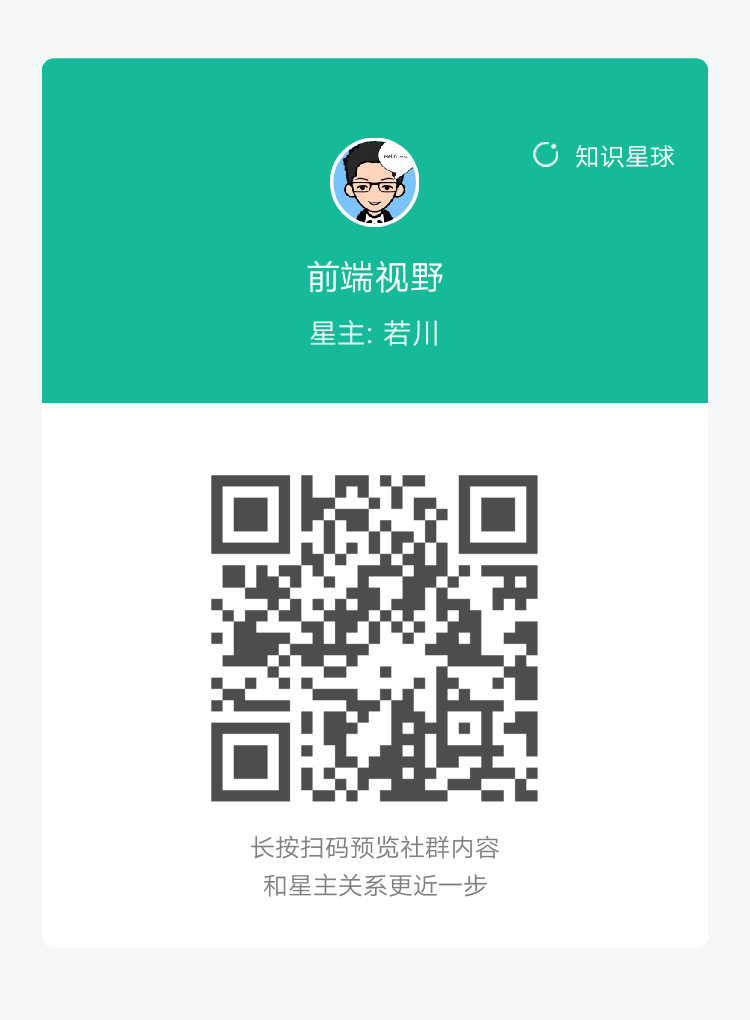
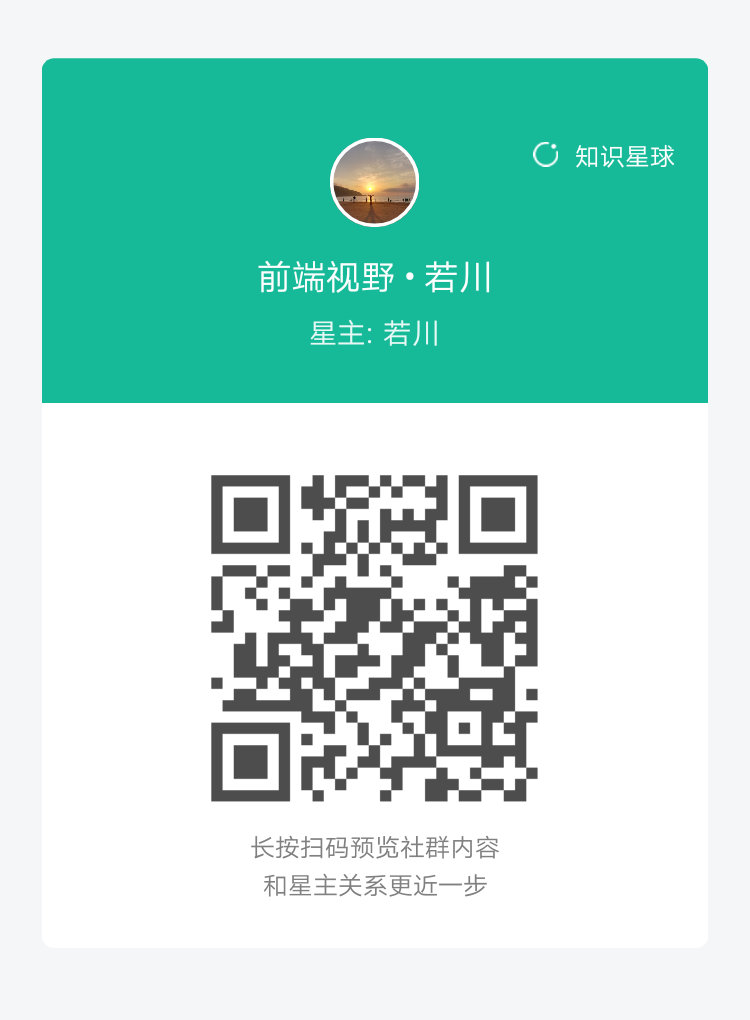
Docs: 更新介绍和知识星球图片替换 :construction:

Changed region(s): [[0.276, 0.4559, 0.736, 0.7902], [0.3373, 0.1216, 0.644, 0.3039]]

diff --git a/docs/.vuepress/config.js b/docs/.vuepress/config.js
@@ -126,19 +126,19 @@ module.exports = {
 				link: 'https://juejin.im/user/57974dc55bbb500063f522fd/posts'
 			},
 			{
-				text: 'segmentFault',
-				link: 'https://segmentfault.com/u/lxchuan12/',
+				text: '知乎',
+				link: 'https://www.zhihu.com/people/lxchuan12/activities',
 			},
 			{
 				text: '其他',
 				items: [
 					{
-						text: '简书',
-						link: 'http://www.jianshu.com/users/83129d433d72/latest_articles',
+						text: 'segmentFault',
+						link: 'https://segmentfault.com/u/lxchuan12/',
 					},
 					{
-						text: '知乎',
-						link: 'https://www.zhihu.com/people/lxchuan12/activities',
+						text: '简书',
+						link: 'http://www.jianshu.com/users/83129d433d72/latest_articles',
 					},
 					{
 						text: '微博',

diff --git a/docs/about/README.md b/docs/about/README.md
@@ -2,7 +2,7 @@
 
 ## 简介
 
-某不那么知名的陶瓷大学2016届毕业生，目前在杭州从事前端开发工作，也是一枚`PPT爱好者`。[`freecodecamp`](https://learn.freecodecamp.one/) （简称FCC）杭州社区组织者之一。所知甚少，唯善学。常以~~轩辕Rowboat~~`若川`为名混迹于江湖。
+某不那么知名的陶瓷大学2016届毕业生，目前在杭州从事前端开发工作，也是一枚`PPT爱好者`。[`freecodecamp`](https://learn.freecodecamp.one/) （简称FCC）杭州社区组织者之一（`简单说就是FCC杭州社区与杭州互联网公司共同举办线下技术分享交流活动，帮助开发者提高，曾与宋小菜、丁香园、微医、个推等公司合作过`）。所知甚少，唯善学。常以~~轩辕Rowboat~~`若川`为名混迹于江湖。
 
 ## ~~轩辕Rowboat由来~~
 
@@ -25,7 +25,9 @@
 
 ## 联系我
 
-![知识星球【**前端视野**】二维码，欢迎扫码免费加入](./zsxq.png)
+知识星球【**前端视野·若川**】，欢迎扫码免费加入。
+
+<img src="./zsxq.png"  width="250px" height="325px" title="知识星球【**前端视野**】二维码，欢迎扫码免费加入" alt="知识星球【**前端视野**】二维码，欢迎扫码免费加入"/>
 
 同时也建了一个微信群【前端视野交流群】，欢迎加入（可以加我微信好友，拉您进群）。
 
@@ -36,15 +38,15 @@
 同时建有一个微信交流群。(2019-06-20更新)
 欢迎加入，可以加我微信(lxchuan12)，邀请您进群。
 
-[segmentfault社区](https://segmentfault.com/u/lxchuan12)，偶尔在`SF社区`答题，虽然目前只有少得可怜的`5.2K`声望(2019-03-28更新)。
+[掘金社区@若川](https://juejin.im/user/57974dc55bbb500063f522fd/posts)，有时也活跃在掘金社区，欢迎关注。
 
-[掘金社区](https://juejin.im/user/57974dc55bbb500063f522fd/posts)，有时也活跃在掘金社区，欢迎关注。
+[知乎@若川](https://www.zhihu.com/people/lxchuan12/activities)，偶尔逛逛知乎，也发发文章，目前很少回答问题。
 
-[github](https://github.com/lxchuan12)，没有star过百，特别有价值的项目，不过有些可能有点价值，您可以瞧瞧。
+[segmentfault社区@若川](https://segmentfault.com/u/lxchuan12)，偶尔在`SF社区`答题，虽然目前只有少得可怜的`5.2K`声望(2019-03-28更新)。
 
-[简书](http://www.jianshu.com/u/83129d433d72)，偶尔在简书上写写文章。
+[github@若川](https://github.com/lxchuan12)，没有star过百，特别有价值的项目，不过有些可能有点价值，您可以瞧瞧。
 
-[知乎](https://www.zhihu.com/people/lxchuan12/activities)，偶尔逛逛知乎，目前基本是看帖不回帖。
+[简书@若川i](http://www.jianshu.com/u/83129d433d72)，偶尔在简书上写写文章。
 
 [微博](https://weibo.com/lxchuan12)，偶尔在微博上更新日常。
 

diff --git a/README.md b/README.md
@@ -4,7 +4,7 @@
 
 ## 关于
 
-**若川**，某不那么知名的陶瓷大学2016届毕业生，目前在`杭州`从事`前端开发`工作，也是一枚`PPT爱好者`。[`freecodecamp`](https://www.freecodecamp.org/) 杭州社区组织者之一。所知甚少，唯善学。常以**若川**为名混迹于江湖。<br>
+**若川**，某不那么知名的陶瓷大学2016届毕业生，目前在`杭州`从事`前端开发`工作，也是一枚`PPT爱好者`。[`freecodecamp`](https://www.freecodecamp.org/) 杭州社区组织者之一（`简单说就是FCC杭州社区与杭州互联网公司共同举办线下技术分享交流活动，帮助开发者提高，曾与宋小菜、丁香园、微医、个推等公司合作过`）。所知甚少，唯善学。常以**若川**为名混迹于江湖。<br>
 
 > **为了提升读者的阅读体验，我将博客从`hexo`升级为`vuepress`。**
 >

diff --git a/docs/posts/README.md b/docs/posts/README.md
@@ -4,7 +4,7 @@
 
 ## 关于
 
-**若川**，某不那么知名的陶瓷大学2016届毕业生，目前在`杭州`从事`前端开发`工作，也是一枚`PPT爱好者`。[`freecodecamp`](https://www.freecodecamp.org/) 杭州社区组织者之一。所知甚少，唯善学。常以**若川**为名混迹于江湖。<br>
+**若川**，某不那么知名的陶瓷大学2016届毕业生，目前在`杭州`从事`前端开发`工作，也是一枚`PPT爱好者`。[`freecodecamp`](https://www.freecodecamp.org/) 杭州社区组织者之一（`简单说就是FCC杭州社区与杭州互联网公司共同举办线下技术分享交流活动，帮助开发者提高，曾与宋小菜、丁香园、微医、个推等公司合作过`）。所知甚少，唯善学。常以**若川**为名混迹于江湖。<br>
 
 > **为了提升读者的阅读体验，我将博客从`hexo`升级为`vuepress`。**
 >

diff --git a/docs/README.md b/docs/README.md
@@ -9,7 +9,7 @@ features:
 - title: 若川的博客
   details: 前端路上 | PPT爱好者 | 所知甚少，唯善学。常以若川为名混迹于江湖。
 - title: 简单自我介绍
-  details: 某不那么知名的陶瓷大学2016届毕业生，目前在杭州从事前端开发工作，也是一枚PPT爱好者。freecodecamp （简称FCC）杭州社区组织者之一。
+  details: 某不那么知名的陶瓷大学2016届毕业生，目前在杭州从事前端开发工作，也是一枚PPT爱好者。freecodecamp （简称FCC）杭州社区组织者之一（简单说就是FCC杭州社区与杭州互联网公司共同举办线下技术分享交流活动，帮助开发者提高，曾与宋小菜、丁香园、微医、个推等公司合作过）。
 - title: 微信公众号
   details: 若川视野
 footer: Copyright © 2016-present 若川

diff --git a/docs/vuex/README.md b/docs/vuex/README.md
@@ -1,1 +1,12 @@
 # vuex
+
+## 推荐阅读
+
+[知乎黄轶：Vuex 2.0 源码分析](https://zhuanlan.zhihu.com/p/23921964)
+[yck：Vuex 源码深度解析](https://yuchengkai.cn/blog/2018-07-31.html)
+[美团明裔：Vuex框架原理与源码分析](https://tech.meituan.com/2017/04/27/vuex-code-analysis.html)
+[vuex github 仓库](https://github.com/vuejs/vuex)
+[vuex 官方文档](https://vuex.vuejs.org/zh/)
+[网易考拉前端团队：Vuex 源码分析](https://juejin.im/post/59b88e2e6fb9a00a4f1b0a0b#heading-8)
+[小虫巨蟹：Vuex 源码解析（如何阅读源代码实践篇）](https://juejin.im/post/5962c13c6fb9a06b9e11a6a9)
+[染陌：Vuex 源码解析](https://juejin.im/post/59f66bd7f265da432d275d30)
